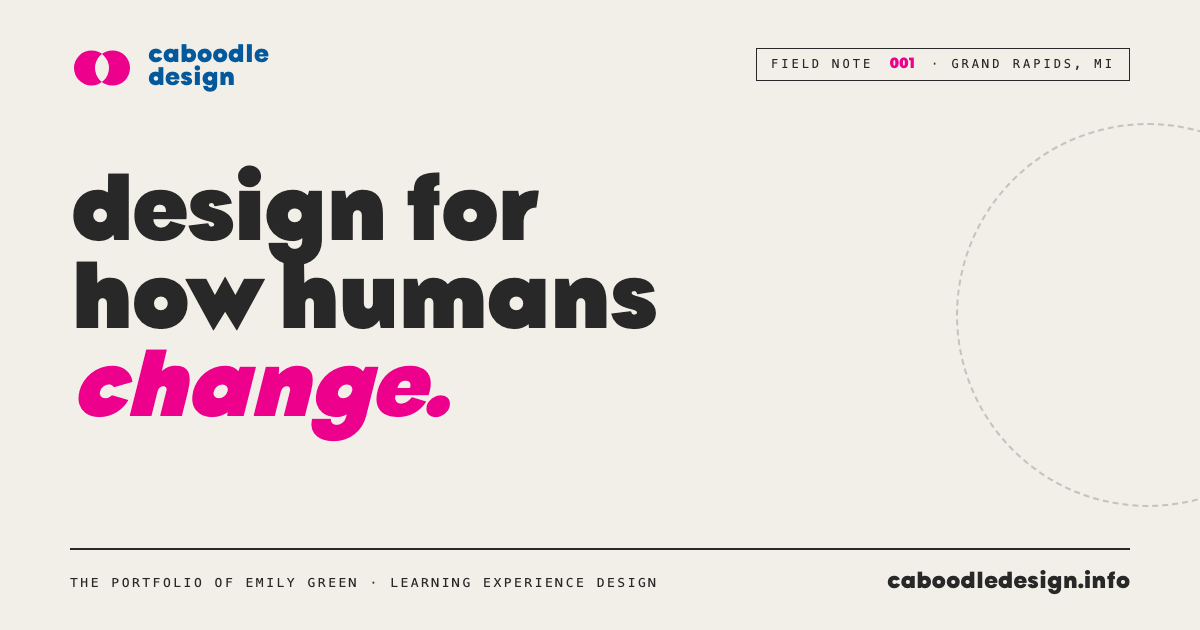
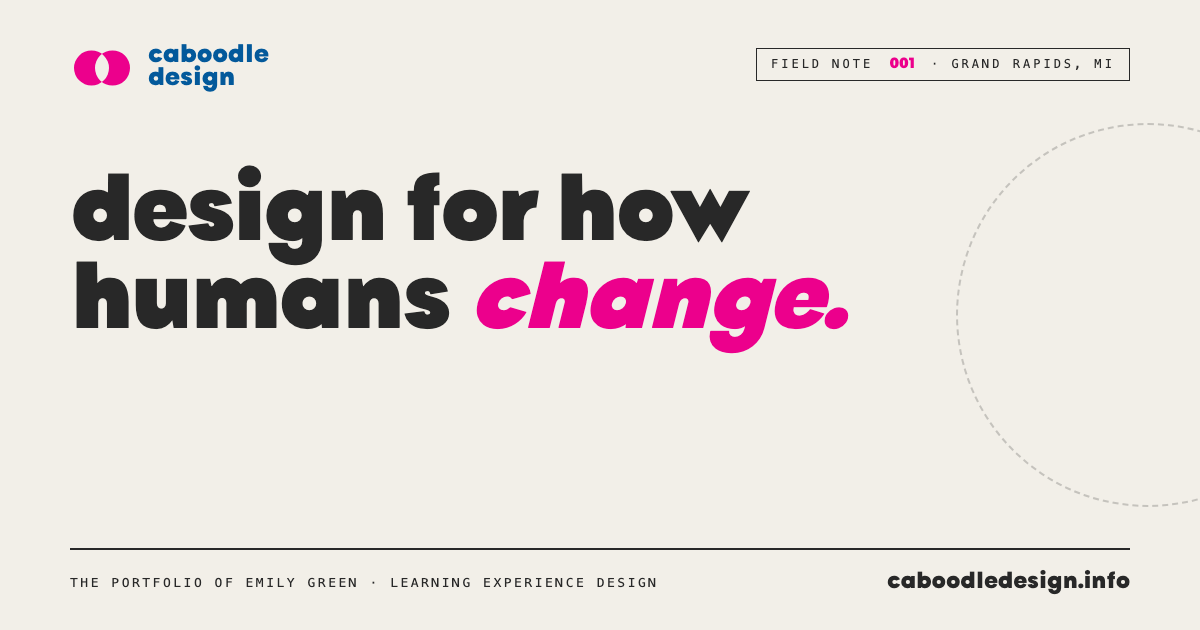
Relaunch: share-card headlines break without widows

Changed region(s): [[0.0617, 0.4222, 0.7092, 0.6937], [0.4625, 0.2714, 0.6475, 0.3921]]

diff --git a/assets/og/og-home.html b/assets/og/og-home.html
@@ -126,7 +126,7 @@
     <div class="og__brand">caboodle<br>design</div>
   </div>
   <div class="og__meta">FIELD NOTE <b>001</b> · GRAND RAPIDS, MI</div>
-  <h1 class="og__h">design for<br>how humans<br><em>change.</em></h1>
+  <h1 class="og__h">design for how<br>humans <em>change.</em></h1>
   <div class="og__rule"></div>
   <div class="og__tag">THE PORTFOLIO OF EMILY GREEN · LEARNING EXPERIENCE DESIGN</div>
   <div class="og__url">caboodledesign.info</div>

diff --git a/assets/og/og-about.html b/assets/og/og-about.html
@@ -126,7 +126,7 @@
     <div class="og__brand">caboodle<br>design</div>
   </div>
   <div class="og__meta">SUBJECT <b>001</b> · EMILY GREEN</div>
-  <h1 class="og__h">learning experience<br><em>designer.</em></h1>
+  <h1 class="og__h">learning<br>experience <em>designer.</em></h1>
   <div class="og__rule"></div>
   <div class="og__tag">SENIOR INSTRUCTIONAL DESIGNER AT MAESTRO · GRAND RAPIDS, MI</div>
   <div class="og__url">caboodledesign.info</div>

diff --git a/assets/og/og-tmobile.html b/assets/og/og-tmobile.html
@@ -123,7 +123,7 @@
     <div class="og__brand">caboodle<br>design</div>
   </div>
   <div class="og__meta">CASE STUDY · <b>ENG-TM001</b></div>
-  <h1 class="og__h">legal training<br>that cut inquiries<br><em>40%.</em></h1>
+  <h1 class="og__h">legal training that<br>cut inquiries <em>40%.</em></h1>
   <div class="og__rule"></div>
   <div class="og__tag">EMILY GREEN · T-MOBILE · LEGAL AFFAIRS</div>
   <div class="og__url">caboodledesign.info</div>

diff --git a/assets/og/og-intuit.html b/assets/og/og-intuit.html
@@ -123,7 +123,7 @@
     <div class="og__brand">caboodle<br>design</div>
   </div>
   <div class="og__meta">CASE STUDY · <b>ENG-INT001</b></div>
-  <h1 class="og__h">career growth<br>for 10,000+<br><em>employees.</em></h1>
+  <h1 class="og__h">career growth for<br><em>10,000+ employees.</em></h1>
   <div class="og__rule"></div>
   <div class="og__tag">EMILY GREEN · INTUIT · INTERNAL MOBILITY</div>
   <div class="og__url">caboodledesign.info</div>

diff --git a/assets/og/og-approach.html b/assets/og/og-approach.html
@@ -126,7 +126,7 @@
     <div class="og__brand">caboodle<br>design</div>
   </div>
   <div class="og__meta">CHAPTER <b>I</b> · METHODOLOGY</div>
-  <h1 class="og__h">i observe<br>before i<br><em>design.</em></h1>
+  <h1 class="og__h">i observe before<br>i <em>design.</em></h1>
   <div class="og__rule"></div>
   <div class="og__tag">EMILY GREEN · ACTION MAPPING · KIRKPATRICK · ETHNOGRAPHY</div>
   <div class="og__url">caboodledesign.info</div>

diff --git a/assets/og/og-trust20.html b/assets/og/og-trust20.html
@@ -126,7 +126,7 @@
     <div class="og__brand">caboodle<br>design</div>
   </div>
   <div class="og__meta">CASE STUDY · <b>ENG-TRUST20</b></div>
-  <h1 class="og__h">five weeks.<br>state<br><em>accredited.</em></h1>
+  <h1 class="og__h">five weeks.<br>state <em>accredited.</em></h1>
   <div class="og__rule"></div>
   <div class="og__tag">EMILY GREEN · GORDON FOOD SERVICES · MULTI-STATE</div>
   <div class="og__url">caboodledesign.info</div>

diff --git a/assets/og/og-resources.html b/assets/og/og-resources.html
@@ -126,7 +126,7 @@
     <div class="og__brand">caboodle<br>design</div>
   </div>
   <div class="og__meta">SUPPLY CABINET · <b>003</b></div>
-  <h1 class="og__h">the supply<br><em>cabinet.</em></h1>
+  <h1 class="og__h">the supply <em>cabinet.</em></h1>
   <div class="og__rule"></div>
   <div class="og__tag">EMILY GREEN · FREE · OPEN SOURCE · DOWNLOADABLE</div>
   <div class="og__url">caboodledesign.info</div>
